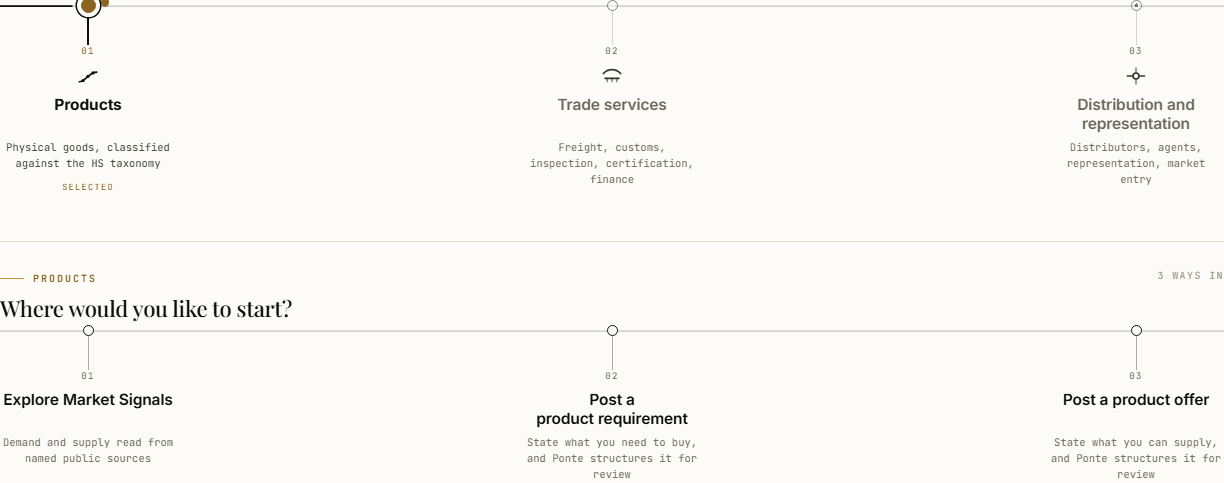
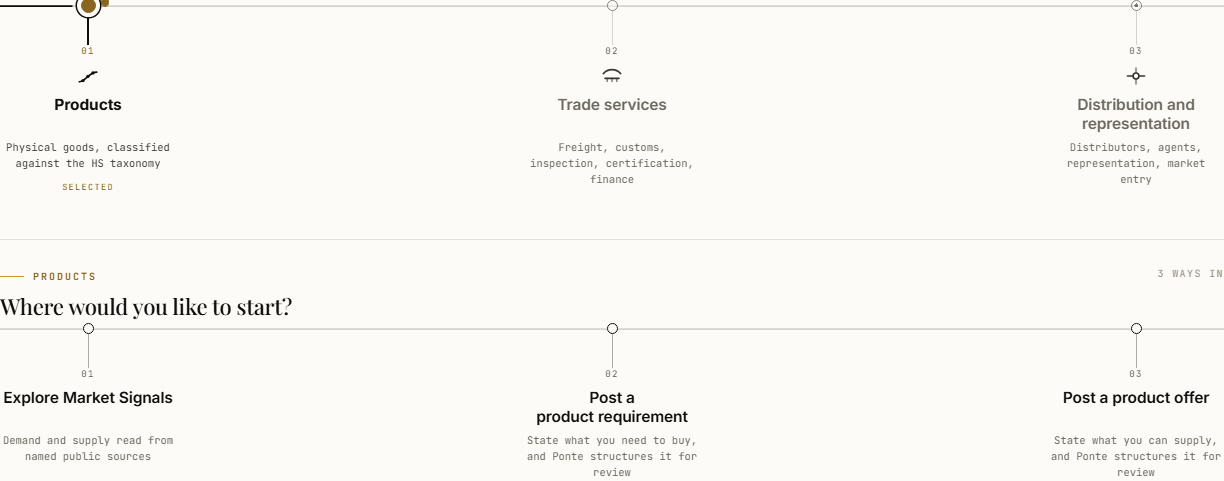
Fix DS-8 and DS-9: the chosen station holds its state, and focus is drawn once
Both were found while producing the evidence for this PR, and both are fixed
in bridge-integration.css. The approved stylesheet is not edited: it is the
authority, CODEOWNERS protects it, and changing it would need an authority
amendment. These are scoped corrections that let the approved source's own
states hold.

DS-8. In the approved source the hover rules are more specific than the
selected ones, so pointing at the family the member had already chosen took
its node from 15px to 13px, swapped the gold fill for grey and faded the
pier. The selection appeared to weaken under the cursor, which is the
opposite of what hover should mean. The selected state is restored at a
higher specificity, copying the values from .brst--on rather than inventing
any, and box-shadow is deliberately left alone so a station that is both
chosen and focused keeps its focus ring. Hover on an unselected station is
untouched and still behaves exactly as approved.

DS-9. desk.css rings every focusable Desk control, and :where() carries no
specificity, so that rule is weaker than it looks but still applied on top of
the Bridge's own focus treatment. A focused station therefore drew three
indicators: a rectangle around the block, a ring on the node and an underline
on the title. Only the blanket ring is removed, and only inside a bridge.
What remains is two carriers at about 5.9:1, comfortably past what WCAG
1.4.11 asks. A command-bar link outside the bridge is asserted to still take
[…]

diff --git a/e2e/landing-bridges.spec.ts b/e2e/landing-bridges.spec.ts
@@ -79,20 +79,14 @@ async function shot(target: Locator | Page, name: string): Promise<void> {
 }
 
 /**
- * Move the pointer off the bridge, so what follows is the settled state rather
- * than a hover state.
+ * Move the pointer off the bridge, so each frame records the settled state
+ * rather than a hover state.
  *
- * This matters more than it looks. In the approved stylesheet
- * `.brst:hover:not([disabled]) .brst__n` is more specific than
- * `.brst--on .brst__n`, so a *selected* station under the cursor renders its
- * node at the 13px hover size instead of the 15px selected size. Clicking a
- * station leaves the pointer on it, so every screenshot taken straight after a
- * click would record a hover frame and every selected-node assertion would read
- * the wrong number.
- *
- * That specificity order is the approved package's own, and this suite does not
- * override it. It is recorded as a Bridge authority question (gap DS-8): a
- * chosen station arguably should not shrink when pointed at.
+ * Clicking a station leaves the pointer on it. Since DS-8 was fixed the
+ * selected node no longer changes under the cursor, but hover still lifts the
+ * pier and the description colour on whichever station the mouse happens to
+ * rest on, and a frame that captured that would be recording where the mouse
+ * was rather than what the interface does.
  */
 async function unhover(page: Page): Promise<void> {
   await page.mouse.move(0, 0);
@@ -102,6 +96,32 @@ async function unhover(page: Page): Promise<void> {
 /** The family stations, in order. */
 function stations(page: Page): Locator {
   return page.locator(".pbridge > .br .brst");
+}
+
+/**
+ * Wait until the revealed Action Bridge has measured itself.
+ *
+ * The three action bridges are all rendered and the unselected ones are
+ * `hidden`, which is what keeps every destination in the document without
+ * JavaScript. A hidden element has no height, so a bridge cannot measure its
+ * stations until it is shown: on reveal it lays out once at the CSS fallback
+ * height and again at the measured one.
+ *
+ * A member never sees that, because the reveal animation is longer than the
+ * extra pass. A screenshot can land between the two, which is what made one
+ * frame differ between otherwise identical runs.
+ */
+async function measured(page: Page): Promise<void> {
+  await expect
+    .poll(
+      () =>
+        page.evaluate(() => {
+          const wrap = document.querySelector(".pbridge .brx:not([hidden]) .br__deckwrap");
+          return wrap?.getAttribute("style")?.includes("--br-h") ?? false;
+        }),
+      { message: "the revealed action bridge never measured its stations" },
+    )
+    .toBe(true);
 }
 
 /**
@@ -162,9 +182,110 @@ test("desktop evidence: default and each family selected", async ({ page }) => {
     const open = page.locator(".pbridge .brx:not([hidden])");
     await expect(open).toHaveCount(1);
     await expect(open).toHaveAttribute("aria-label", new RegExp(`^${FAMILY_LABELS[family]}:`));
+    await measured(page);
 
     await shot(block(page), fileFor[family]);
   }
+});
+
+// ---------------------------------------------------------------------------
+// DS-8: a chosen station must not shrink when it is pointed at
+// ---------------------------------------------------------------------------
+
+test("DS-8: hovering the chosen station does not demote it", async ({ page }) => {
+  await page.setViewportSize({ width: 1280, height: 900 });
+  await landing(page);
+
+  const chosen = stations(page).nth(0);
+  await chosen.click();
+  await unhover(page);
+
+  const node = page.locator(".pbridge > .br .brst--on .brst__n");
+  const pier = page.locator(".pbridge > .br .brst--on .brst__p");
+
+  /*
+    Auto-retrying assertions throughout, because `.brst__n` transitions width,
+    height, background and border-colour over `--pf-dur-micro`. A plain read
+    straight after the click samples the transition in flight and gets a value
+    between the two states, which is how the first version of this test
+    reported 12.77px for a node that settles at 15.
+  */
+  const expectSelectedNode = async () => {
+    await expect(node).toHaveCSS("width", "15px");
+    await expect(node).toHaveCSS("height", "15px");
+    await expect(node).toHaveCSS("background-color", "rgb(138, 101, 32)"); // --pf-gold-ink
+    await expect(node).toHaveCSS("border-top-color", "rgb(138, 101, 32)");
+    await expect(pier).toHaveCSS("opacity", "1");
+    await expect(pier).toHaveCSS("width", "2px");
+  };
+
+  await expectSelectedNode();
+
+  // Now point at it. Every one of these was different before the fix: the node
+  // fell to 13px and the sunken grey, and the pier faded to .8.
+  await chosen.hover();
+  await expect(page.locator(".pbridge > .br .brst--on:hover")).toHaveCount(1);
+  await expectSelectedNode();
+  await measured(page);
+
+  // Captured while the pointer is still on the chosen station: this frame is
+  // the proof for DS-8, so it has to be a hover frame.
+  await shot(block(page), "desktop-9-selected-hover");
+
+  // The approved hover treatment for an UNSELECTED station is untouched: it
+  // still grows from 11px to 13px and takes the sunken fill.
+  const other = stations(page).nth(1);
+  await other.hover();
+  await expect(other.locator(".brst__n")).toHaveCSS("width", "13px");
+  await expect(other.locator(".brst__n")).toHaveCSS("background-color", "rgb(242, 239, 230)"); // --pf-sunken
+});
+
+// ---------------------------------------------------------------------------
+// DS-9: one deliberate focus treatment, not the Bridge's plus the Desk's
+// ---------------------------------------------------------------------------
+
+test("DS-9: a focused station carries one focus treatment, and it is strong", async ({ page }) => {
+  await page.setViewportSize({ width: 1280, height: 900 });
+  await landing(page);
+
+  await stations(page).nth(0).focus();
+  const focus = await page.evaluate(() => {
+    const el = document.querySelectorAll(".pbridge > .br .brst")[0] as HTMLElement;
+    const c = getComputedStyle;
+    return {
+      stationShadow: c(el).boxShadow,
+      stationOutlineWidth: c(el).outlineWidth,
+      nodeShadow: c(el.querySelector(".brst__n")!).boxShadow,
+      titleDecoration: c(el.querySelector(".brst__t")!).textDecorationLine,
+      titleDecorationColour: c(el.querySelector(".brst__t")!).textDecorationColor,
+    };
+  });
+
+  // The duplicate is gone: the Desk's blanket ring no longer draws a rectangle
+  // around the whole station block.
+  expect(focus.stationShadow, "the blanket Desk focus ring is still on the station").toBe("none");
+
+  // And what remains is the approved Bridge treatment, still two carriers: a
+  // ring on the node and an underline on the title, both in --pf-focus.
+  expect(focus.nodeShadow).toContain("rgb(30, 95, 168)"); // --pf-focus
+  expect(focus.titleDecoration).toBe("underline");
+  expect(focus.titleDecorationColour).toBe("rgb(30, 95, 168)");
+});
+
+test("DS-9: no other Desk control lost its focus ring", async ({ page }) => {
+  await page.setViewportSize({ width: 1280, height: 900 });
+  await landing(page);
+
+  // The fix is scoped to `.br .brst`. The command bar's own links sit in the
+  // same `.ponte-desk` scope and must still take the blanket ring.
+  const navShadow = await page.evaluate(() => {
+    const link = document.querySelector(".cmd__nav a, .cmd a[href='/market-signals']") as HTMLElement | null;
+    if (!link) return null;
+    link.focus();
+    return getComputedStyle(link).boxShadow;
+  });
+  expect(navShadow, "no command-bar link found to check").not.toBeNull();
+  expect(navShadow, "a Desk control outside the bridge lost its focus ring").toContain("rgb(30, 95, 168)");
 });
 
 // ---------------------------------------------------------------------------

diff --git a/components/ponte/bridge/bridge-integration.css b/components/ponte/bridge/bridge-integration.css
@@ -98,3 +98,89 @@
 .br:not(.br--v) .brst__ic {
   margin-inline: auto;
 }
+
+/* ======================================================================
+   4. DS-8 - a chosen station must not shrink when it is pointed at
+
+   In the approved source the hover rules are more specific than the selected
+   ones:
+
+     .brst:hover:not([disabled]) .brst__n   (0,4,0)  13px, sunken fill
+     .brst--on            .brst__n          (0,2,0)  15px, gold-ink fill
+     .brst:hover:not([disabled]) .brst__p   (0,4,0)  opacity .8
+     .brst--on            .brst__p          (0,2,0)  2px, opacity 1
+
+   So moving the pointer onto the family the member has already chosen took its
+   node from 15px down to 13px, swapped the gold fill for the sunken grey and
+   faded the pier. The selection appeared to weaken under the cursor, which is
+   the opposite of what hover means: pointing at something should never demote
+   it.
+
+   The hover treatment for UNSELECTED stations is untouched and still behaves
+   exactly as approved. What is restored below is only the selected state, and
+   only while hovered.
+
+   Nothing here changes a value: every declaration is copied from
+   `.brst--on` in the approved source. The approved stylesheet is not edited,
+   because it is the authority and CODEOWNERS protects it; this is the scoped
+   correction that lets its own selected state survive its own hover state.
+
+   `box-shadow` is deliberately NOT restated. `.brst:focus-visible .brst__n`
+   uses it to draw the focus ring, and repeating the selected ring here at a
+   higher specificity would erase focus on a station that is both chosen and
+   focused.
+   ====================================================================== */
+
+.br .brst--on:hover:not([disabled]) .brst__n {
+  width: 15px;
+  height: 15px;
+  margin-block: -2px;
+  background: var(--pf-gold-ink);
+  border-color: var(--pf-gold-ink);
+}
+
+.br .brst--on:hover:not([disabled]) .brst__p {
+  opacity: 1;
+}
+
+/* The pier is a vertical rule when the bridge is horizontal and a short
+   horizontal connector when it is vertical, so only the horizontal variant
+   takes back its width. In `.br--v` the width is 13px and the weight is
+   carried by height, which the approved hover rule never touches. */
+.br:not(.br--v) .brst--on:hover:not([disabled]) .brst__p {
+  width: 2px;
+}
+
+/* ======================================================================
+   5. DS-9 - one deliberate focus treatment, not two
+
+   `desk.css` puts a blanket ring on every focusable control in the Desk:
+
+     .ponte-desk :where(a, button, ...):focus-visible   (0,2,0)
+
+   `:where()` carries no specificity, so that rule is only `.ponte-desk` plus
+   `:focus-visible`. It was written before the Bridge existed and it is right
+   for ordinary Desk controls, which have no focus treatment of their own.
+
+   A Bridge station does. The approved source draws focus twice over already:
+
+     .brst:focus-visible .brst__n   the approved focus ring on the node
+     .brst:focus-visible .brst__t   a 1.5px underline on the title
+
+   Both applying meant a focused station carried a rectangle around the whole
+   block AS WELL AS the ring and the underline. Three indicators for one focus.
+
+   Only the blanket ring is removed, and only inside a bridge. Focus stays
+   strongly visible and stays compliant: the node ring is
+   `--pf-focus-ring`, which is 2px of `--pf-focus` (#1E5FA8) against
+   `--pf-surface` (#FCFBF7) at about 5.9:1, comfortably past the 3:1 that
+   WCAG 1.4.11 asks of a focus indicator, and the underline is a second,
+   differently-shaped carrier of the same information.
+
+   Scoped to `.br .brst` so no other Desk control loses anything. The ink-panel
+   variant and the login override in `desk.css` are untouched.
+   ====================================================================== */
+
+.ponte-desk .br .brst:focus-visible {
+  box-shadow: none;
+}

diff --git a/docs/codex/audits/constitution-rebuild/evidence/landing-bridges/README.md b/docs/codex/audits/constitution-rebuild/evidence/landing-bridges/README.md
@@ -30,6 +30,7 @@ PONTE_EVIDENCE_BASE_URL=https://deploy-preview-63--ponte-trade.netlify.app npx p
 | `desktop-6-reduced-motion.png` | `prefers-reduced-motion: reduce`. Identical settled composition |
 | `desktop-7-runner-step-{1..5}-of-5.png` | The gold runner crossing, stepped at 0, 25, 50, 75 and 100% of its 620ms |
 | `desktop-8-runner-settled.png` | After settling. The runner is gone |
+| `desktop-9-selected-hover.png` | The chosen station **with the pointer on it**. Identical to `desktop-2` — the proof for DS-8 |
 | `mobile-1-family-neutral-390x844.png` | 390 x 844 viewport frame, vertical treatment |
 | `mobile-2-products-selected-390x844.png` | 390 x 844, Products chosen, actions revealed |
 | `mobile-3-page-390x844.png` | The whole landing at 390, so the bridge is seen in its place |
@@ -125,20 +126,62 @@ requires Ponte Flow icons on the Family Bridge and the approved stylesheet has
 no icon slot on a station. It is an **addition**, not an override: it sets
 position and inherits colour, so the icon law still holds. Gap DS-6.
 
-## 4. Observations for the owner
+## 4. DS-8 and DS-9, resolved
 
-Two things the approved stylesheet does that are worth a decision. Neither was
-changed here.
+Both were found while producing this evidence, and both are now fixed in
+`components/ponte/bridge/bridge-integration.css`. **The approved stylesheet was
+not edited**: it is the authority, CODEOWNERS protects it, and changing it would
+need an authority amendment. These are scoped corrections that let the approved
+source's own states hold.
 
-- **DS-8 — a chosen station shrinks when pointed at.**
-  `.brst:hover:not([disabled]) .brst__n` is more specific than
-  `.brst--on .brst__n`, so hovering the selected station takes its node from the
-  selected 15px down to the hover 13px. It reads as the selection weakening
-  under the cursor. Caught because the first evidence run measured 13px where it
-  expected 15px.
-- **DS-9 — two focus indicators.** The Desk's blanket
-  `:focus-visible` ring in `desk.css` and the Bridge's own approved focus
-  treatment both apply, so a focused station shows an outer rectangle as well as
-  the node ring and title underline. Not a violation, since Constitution
-  section 12 prohibits removing focus indicators rather than doubling them, but
-  it is redundant.
+### DS-8 — a chosen station no longer shrinks when pointed at
+
+In the approved source the hover rules outrank the selected ones:
+
+| Rule | Specificity | Effect |
+|---|---|---|
+| `.brst:hover:not([disabled]) .brst__n` | (0,4,0) | 13px, `--pf-sunken` fill |
+| `.brst--on .brst__n` | (0,2,0) | 15px, `--pf-gold-ink` fill |
+| `.brst:hover:not([disabled]) .brst__p` | (0,4,0) | opacity .8 |
+| `.brst--on .brst__p` | (0,2,0) | 2px, opacity 1 |
+
+So moving the pointer onto the family the member had already chosen took its
+node from 15px to 13px, swapped the gold for grey and faded the pier: the
+selection appeared to weaken under the cursor.
+
+The fix restores the selected state at a higher specificity, copying the values
+from `.brst--on` rather than inventing any. `box-shadow` is deliberately not
+restated, so a station that is both chosen and focused still shows its focus
+ring. **Hover on an unselected station is untouched** and still behaves exactly
+as approved — asserted in the suite, 11px to 13px with the sunken fill.
+
+`desktop-9-selected-hover.png` is the proof: it is a hover frame and it is
+identical to `desktop-2-products-selected.png`.
+
+### DS-9 — one focus treatment, not three
+
+`desk.css` puts a blanket ring on every focusable Desk control:
+
+```css
+.ponte-desk :where(a, button, ...):focus-visible   /* (0,2,0) */
+```
+
+`:where()` carries no specificity, so that is only `.ponte-desk` plus
+`:focus-visible`. It predates the Bridge and is right for ordinary Desk
+controls, which have no focus treatment of their own.
+
+A Bridge station does, and the approved source already draws focus twice:
+`.brst:focus-visible .brst__n` rings the node and `.brst:focus-visible .brst__t`
+underlines the title. All three applying meant a rectangle around the whole
+block **as well as** the ring and the underline.
+
+Only the blanket ring is removed, and only inside a bridge. What remains is
+still two carriers, and still compliant: the node ring is `--pf-focus-ring`, 2px
+of `--pf-focus` (#1E5FA8) on `--pf-surface` (#FCFBF7) at about **5.9:1**,
+comfortably past the 3:1 WCAG 1.4.11 asks of a focus indicator, plus a
+differently-shaped second indicator on the title. `desktop-5-keyboard-focus.png`
+shows the result.
+
+The suite asserts both halves: that the station itself carries no box-shadow,
+and that **a command-bar link outside the bridge still takes the blanket ring**,
+so nothing else in the Desk lost anything.

diff --git a/docs/codex/audits/constitution-rebuild/GAP-REGISTER.md b/docs/codex/audits/constitution-rebuild/GAP-REGISTER.md
@@ -14,7 +14,7 @@ implementer deciding the gap did not matter.
 
 ---
 
-## 1. Closed by this PR
+## 1. Closed
 
 | # | Gap | How it closed |
 |---|---|---|
@@ -22,7 +22,11 @@ implementer deciding the gap did not matter.
 | **G3** | Flow token import path; retire the parallel Desk set | 21 aliases; the import already existed (see §4) |
 | **G4** | Motion component layer and reduced-motion wiring | `lib/ponte/motion.ts`, `components/ponte/motion/FlowMotion.tsx`; CSS already imported (see §4) |
 | **G6d** | Brand lockup as inline SVG | Owner ruled it an identity asset. One shared component; four copies consolidated |
+| **DS-8** | A chosen Bridge station shrank when pointed at | Fixed in `bridge-integration.css`: the selected state is restored at a higher specificity than the approved hover rule. Unselected hover untouched |
+| **DS-9** | Two focus treatments on a Bridge station | Fixed in `bridge-integration.css`: the Desk blanket ring is removed inside `.br .brst` only. The approved node ring and title underline remain, at 5.9:1 |
 | **G7** | Route-level state components | `components/ponte/state/LifecycleState.tsx`, seven states, 16 tests |
+
+Rows above are closed by PR #62 (foundation) and PR #63 (landing bridges).
 
 G7 is closed as a **primitive**. The 25 routes that lack lifecycle states adopt
 it in their own journey slices; this PR deliberately retrofits none of them.
@@ -55,8 +59,6 @@ absence is a decision. They must not be "fixed".
 |---|---|---|---|
 | **DS-5** | **The approved Bridge engine source is missing** | `SOURCE-MANIFEST.md` and the implementation notes both name `source/ponte-bridge.js`. The repository holds only `source/archive/ponte-bridge.js.gz.b64.part01`, a 3 KB fragment of a gzip stream that does not decompress. The `Import approved Bridge package` workflow fails on the Google Drive checksum and always has. Reference PNGs are recorded by checksum only and are absent too. The complete `ponte-bridge.css` and the notes **are** present, and slice 4 was built from them | Verification of every `ENGINE DECISION` in `BridgeRoute`, and therefore the confidence of slices 5 to 11 |
 | **DS-6** | No icon slot on a Bridge station | The approved stylesheet has no rule for an icon inside `.brst`, and the landing scope requires Flow icons on the Family Bridge. Added as `brst__ic` in `bridge-integration.css`, as an addition rather than an override | Nothing today; wants an authority answer before more bridges carry icons |
-| **DS-8** | A chosen station shrinks when pointed at | In the approved stylesheet `.brst:hover:not([disabled]) .brst__n` outranks `.brst--on .brst__n`, so hovering the selected station takes its node from 15px to the 13px hover size. Not changed here | Nothing; an owner decision on the approved CSS |
-| **DS-9** | Two focus indicators on a bridge station | The Desk's blanket `:focus-visible` ring in `desk.css` and the Bridge's own approved focus treatment both apply. Redundant rather than wrong: section 12 prohibits removing focus indicators, not doubling them | Nothing |
 | **DS-7** | No abutment copy for the Family Bridge | `PB.route` takes `left`, `right` and `rightDashed` labels and `.br__ab` styles them, but no authority states what a family bridge's abutments should say. They are omitted rather than invented, which is why the deck currently has no end labels | Nothing; a composition decision for the owner |
 | **DS-1** | No approved on-ink focus or review value | The Desk's ink panels use the `[data-theme="dark"]` values of `--pf-focus` and `--pf-review` as literals. Neither `var(--pf-*)` nor `.inverse` scoping works. See `compatibility-aliases.md` §4 | The rail and knowledge-boundary slices |
 | **DS-2** | The lockup drifted between its four copies | Three carried `strokeLinecap="square"`, the Desk did not; the landing wordmark carried no `serif` class. Every surface still renders exactly what it did, but one of the two variants is canonical and nobody has said which | Nothing. Cosmetic, but it should be settled before the mark is used anywhere new |
